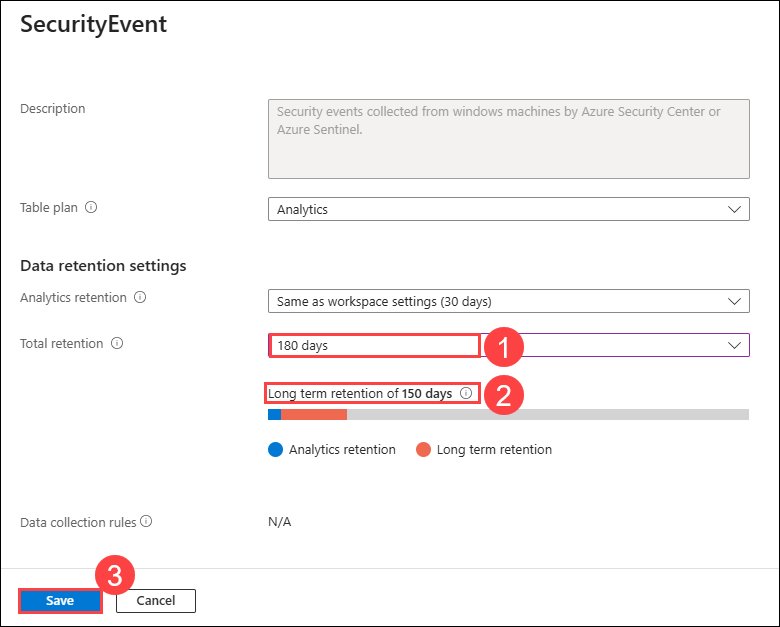
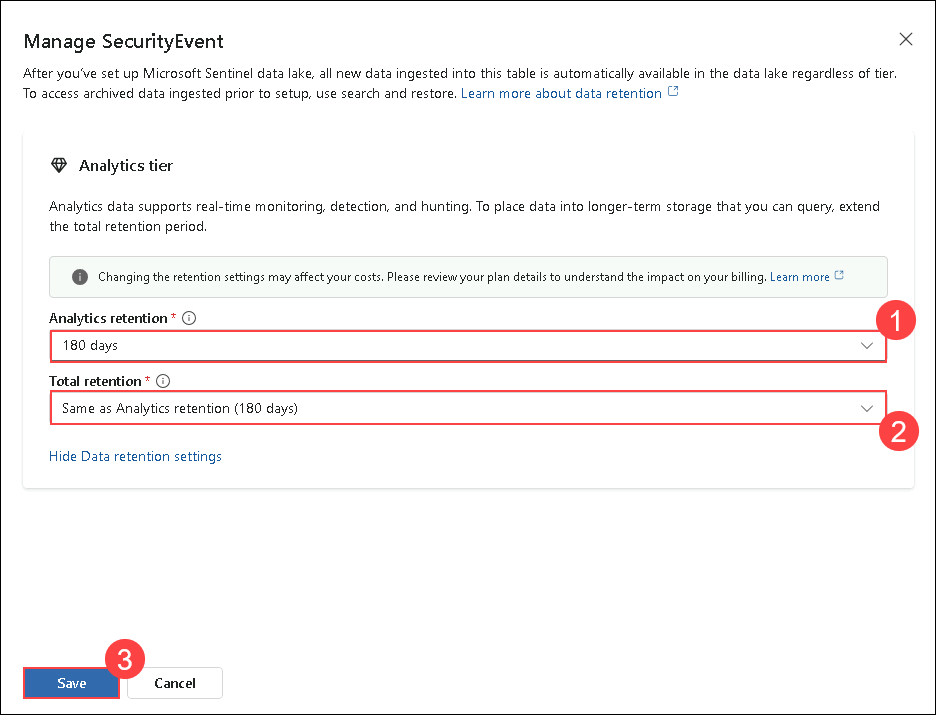
Update

diff --git a/Threat Protection and Incident response with Microsoft Sentinel/Day1/Exercise2.md b/Threat Protection and Incident response with Microsoft Sentinel/Day1/Exercise2.md
@@ -10,59 +10,12 @@ In this lab, you will enable and configure data connectors in Microsoft Sentinel
 ## Lab Objectives
  In this lab, you will perform the following:
 
-- Task 1: Access the Microsoft Sentinel Workspace
-- Task 2: Connect the Microsoft Entra ID connector
-- Task 3: Connect the Microsoft Entra ID Protection connector
-- Task 4: Connect the Microsoft Defender for Cloud connector
-- Task 5: Connect the Azure Activity connector
+- Task 1: Connect the Microsoft Entra ID connector
+- Task 2: Connect the Microsoft Entra ID Protection connector
+- Task 3: Connect the Microsoft Defender for Cloud connector
+- Task 4: Connect the Azure Activity connector
 
-### Task 1: Access the Microsoft Sentinel Workspace
-
- In this task, you will create a Log Analytics workspace for use with Microsoft Defender for Cloud and you will access your Microsoft Sentinel workspace.  
-
- 1. In the Search bar of the Azure portal, type **Log Analytics workspaces (1)**, then select **Log Analytics workspaces (2)**.
-
-    ![](./images/Ex1-00.png)
-
-1. On the **Log Analytics workspaces** page, select **+ Create** from the command bar.
-
-   ![](./images/Ex1-01.png)
-
-1. To create a **log analytics workspaces**, follow these steps:
-
-    - Leave the **Subscription (1)** as default.
-    - Select **sentinel-rg (2),** for Resource group.
-    - For the Name, enter **uniquenameSentinel (3)**.
-    - Leave the **Region (4)** as default.
-    - Select **Review + Create (5)**.
-
-      ![Picture 1](./images/Ex1-02.png)
-
-1. Once the workspace validation has passed, select **Create**.
-
-   ![](./images/Ex1-03.png)
-
-1. Wait for the new workspace to be provisioned, this may take a few minutes.
-   
-   ![](./images/Ex1-04.png)
-
-1. In the Search bar of the Azure portal, type **Microsoft Sentinel (1)**, then select **Microsoft Sentinel (2)**.
-
-   ![](./images/Ex1-05.png)
-
-1. On the **Microsoft Sentinel** page, select **+ Create** from the command bar.
-
-   ![](./images/Ex1-06.png)
-
-1. Select the newly created workspace named **uniquenameSentinel (1)** and click on **Add (2)**.
-  
-   ![](./images/Ex1-07.png)
-
-1. In the **Microsoft Sentinel free trial activated** tab, select **Ok**.
-
-   ![](./images/Ex1-08.png)
-
-### Task 2: Connect the Microsoft Entra ID connector
+### Task 1: Connect the Microsoft Entra ID connector
 
  In this task, you will connect the Microsoft Entra ID connector to Microsoft Sentinel.
 
@@ -86,7 +39,7 @@ In this lab, you will enable and configure data connectors in Microsoft Sentinel
 
     >**Note:** It may take **15–20 minutes** for the **Microsoft Entra ID** data connector to show a **Connected** status after configuration. 
 
-### Task 3: Connect the Microsoft Entra ID Protection connector
+### Task 2: Connect the Microsoft Entra ID Protection connector
 
 In this task, you will connect the Microsoft Entra ID Protection connector to Microsoft Sentinel.
 
@@ -100,7 +53,7 @@ In this task, you will connect the Microsoft Entra ID Protection connector to Mi
 
    ![Picture 1](./images/Ex2-13.png) 
 
-### Task 4: Connect the Microsoft Defender for Cloud connector
+### Task 3: Connect the Microsoft Defender for Cloud connector
 
 In this task, you will connect the Microsoft Defender for Cloud connector.
 
@@ -124,7 +77,7 @@ In this task, you will connect the Microsoft Defender for Cloud connector.
 
    ![Picture](./images/Ex2-04.png)
 
-### Task 5: Connect the Azure Activity connector
+### Task 4: Connect the Azure Activity connector
 
 In this task, you will connect the Azure Activity connector.
 
@@ -150,7 +103,7 @@ In this task, you will connect the Azure Activity connector.
 
    ![Picture](./images/Ex2-08.png)
 
-1. In the **Primary** tab, click the ellipsis button **(...) (1)** next to **Primary Log Analytics workspace** and select your **workspace (2)** from the drop-down list and click **Select (3)**.
+1. In the **Parameters** tab, click the ellipsis button **(...) (1)** next to **Primary Log Analytics workspace** and select your **workspace (2)** from the drop-down list and click **Select (3)**.
 
    ![Picture](./images/Ex2-09.png)
 

diff --git a/Threat Protection and Incident response with Microsoft Sentinel/Day1/Exercise3.md b/Threat Protection and Incident response with Microsoft Sentinel/Day1/Exercise3.md
@@ -104,7 +104,7 @@ In this task, you will create an indicator in Microsoft Sentinel.
 
       ![](./images/Ex3-01.png)
 
-      **Note:** It could take a couple of minutes for the indicator to appear.
+    > **Note:** It could take a couple of minutes for the indicator to appear.
 
 1. In the Azure portal search bar, type **Microsoft Sentinel (1)**, then select **Microsoft Sentinel (2)**.
 
@@ -116,7 +116,7 @@ In this task, you will create an indicator in Microsoft Sentinel.
 
 1. Select the **Logs (1)** option under **General** on the left hand menu. 
 
-   >**Note:** You may need to disable the "Always show queries" option and close the *Queries* window to run the statements.
+   >**Note:** You may need to disable the "Always show Queries hub" option and close the *Queries* window to run the statements.
 
 1. Choose working mode as **KQL mode (2)**, enter the below given query **(3)**, then click **Run (4)** and in **Results (5)** section see the output of the query.  
 
@@ -142,21 +142,19 @@ In this task, you will create an indicator in Microsoft Sentinel.
 
 In this task, you will change the retention period for the SecurityEvent table.
 
-1. In Microsoft Sentinel, select the **Settings** option under the *Configuration* area.
-
-1. Select **Workspace settings**.
-
-1. In Log Analytics workspace, select the **Tables** option under the *Settings* area.
+1. In Microsoft Sentinel, select the **Configuration** and select the **Tables** option.
 
    ![](./images/Ex3-07.png)
 
-1. To search  type **SecurityEvent (1)** in the search bar and select the table **SecurityEvent (2)**, then click the **ellipsis (...) (3)** and select **Manage Table (4)** from the list.
+1. To search  type **SecurityEvent (1)** in the search bar and select the table **SecurityEvent (2)**.
 
    ![](./images/Ex3-09.png)
 
-1. Select **180 days (1)** for **Total retention period**. Notice that **Long term retention** is only **150 days (2)**, since it uses 30 days from the (default) *Interactive retention*.
+1. Click on **Managed table**
 
-1. Select **Save (3)** to apply the changes. 
+   ![](./images/Ex3-09b.png)
+
+1. Select **180 days (1)** for **Total retention period**. Notice that **Total retention** is only **180 days (2)**, Same as Analytics retention and click on **Save (3)** to apply the changes. 
 
    ![](./images/Ex3-10.png)
 

diff --git a/Threat Protection and Incident response with Microsoft Sentinel/Day1/Exercise4.md b/Threat Protection and Incident response with Microsoft Sentinel/Day1/Exercise4.md
@@ -94,6 +94,6 @@ In this lab, you enabled UEBA in Microsoft Sentinel to profile entities, detect 
 
 ## You have successfully completed the lab!
 
-In this hands-on lab, **Threat Protection and Incident response with Microsoft Sentinel- Day 1**, you successfully deployed Microsoft Sentinel, integrated key data sources, enriched insights with threat intelligence, and applied UEBA for anomaly detection. You are now equipped to build a robust security monitoring setup, detect potential threats, and respond effectively to incidents.
+In this hands-on lab, **Threat Protection and Incident response with Microsoft Sentinel**, you successfully deployed Microsoft Sentinel, integrated key data sources, enriched insights with threat intelligence, and applied UEBA for anomaly detection. You are now equipped to build a robust security monitoring setup, detect potential threats, and respond effectively to incidents.
 
 

diff --git a/Threat Protection and Incident response with Microsoft Sentinel/Day1/GettingStarted.md b/Threat Protection and Incident response with Microsoft Sentinel/Day1/GettingStarted.md
@@ -1,4 +1,4 @@
-# Threat Protection and Incident response with Microsoft Sentinel- Day 1
+# Threat Protection and Incident response with Microsoft Sentinel
 
 ### Overall Estimated Duration: 4 Hours
 
